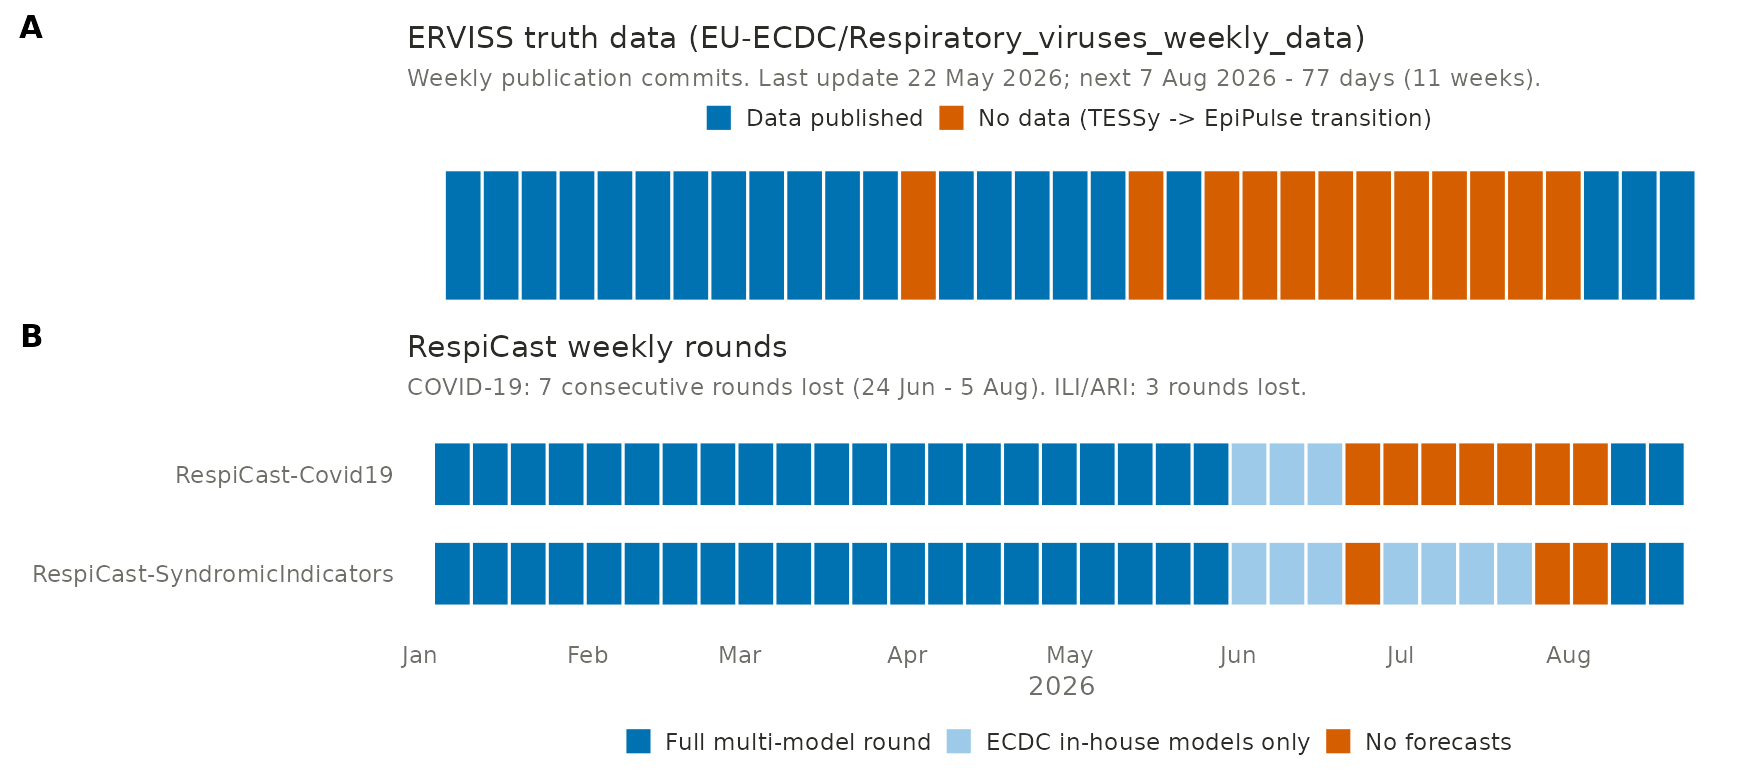
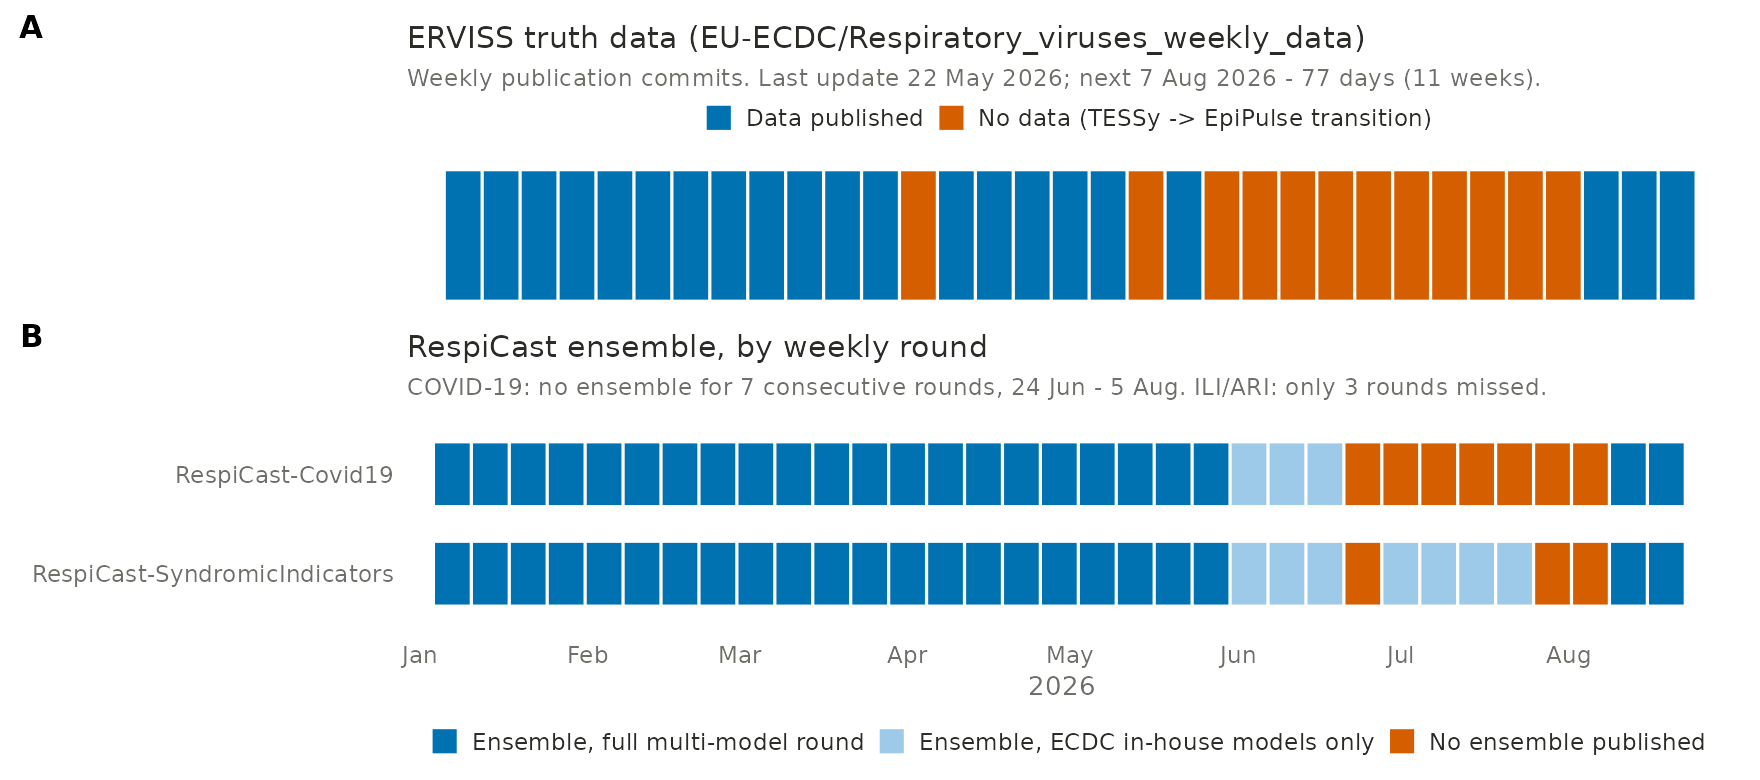
Quantify the 2026 ensemble gap; recast the break figure around the ensemble
The interruption hit the two hubs differently, so a single 'no ensemble' figure
for RespiCast as a whole would be wrong:
- RespiCast-Covid19: no ensemble for 7 consecutive rounds. Last ensemble
  17 Jun 2026, next 12 Aug 2026 - 56 days, exactly 8 weeks apart.
- RespiCast-SyndromicIndicators: only 3 rounds missed (24 Jun, 29 Jul, 5 Aug),
  never more than two in a row, because ECDC-SARIMA and ECDC-soca_simplex kept
  submitting and the hub kept combining them.

Also records that the quantile baseline was produced every week in both hubs
throughout the outage: for COVID-19 the automation ran and generated a baseline
but received zero model submissions, so no ensemble could be formed.

fig_break_2026.R panel B now classifies weeks by whether an ENSEMBLE was
published (and whether it rested on ECDC's own two models), which is what
reaches users, rather than by raw model count.

Claude-Session: https://claude.ai/code/session_01MMiv5DN39ovwE2mEqpKX7g

Changed region(s): [[0.25, 0.9231, 0.9688, 0.9846], [0.3125, 0.4615, 0.875, 0.5231], [0.3125, 0.4308, 0.5625, 0.4615]]

diff --git a/documentation/findings.md b/documentation/findings.md
@@ -246,6 +246,23 @@ ILI/ARI degraded rather than stopped: the four rounds from 1–22 Jul ran on **E
 only** (`ECDC-SARIMA`, `ECDC-soca_simplex`) — every external team was absent. Both hubs resumed on
 **12 Aug 2026**, the first Wednesday round after ERVISS data returned on Friday 7 Aug.
 
+### Was an ensemble produced during the interruption?
+
+Not for COVID-19 — but ILI/ARI kept one going. The two hubs failed differently:
+
+| Hub | Last ensemble before | First ensemble after | Rounds with no ensemble |
+|---|---|---|---:|
+| RespiCast-Covid19 | **17 Jun 2026** | **12 Aug 2026** | **7 consecutive** (24 Jun; 1, 8, 15, 22, 29 Jul; 5 Aug) |
+| RespiCast-SyndromicIndicators | 22 Jul 2026 | 12 Aug 2026 | 3 in total (24 Jun; 29 Jul, 5 Aug), longest run 2 |
+
+For COVID-19 the two published ensembles are **56 days = exactly 8 weeks apart**, with **7 weekly
+rounds missed** in between. ILI/ARI never lost more than two rounds in a row, because `ECDC-SARIMA`
+and `ECDC-soca_simplex` kept submitting and the hub kept combining them.
+
+The hubs did not stop running: the **quantile baseline was generated every single week** in both hubs
+throughout (24 Jun – 5 Aug inclusive). For COVID-19 the automation ran and produced a baseline but
+received **zero model submissions**, so no ensemble could be formed.
+
 **Two honest qualifications.** (i) The forecast outage begins about **five weeks after** the data
 outage: data stopped 22 May, but rounds ran normally to 17 Jun on the last available truth data, so
 the forecast break (7 weeks) is shorter than the data break (11 weeks). (ii) It falls in the deep
